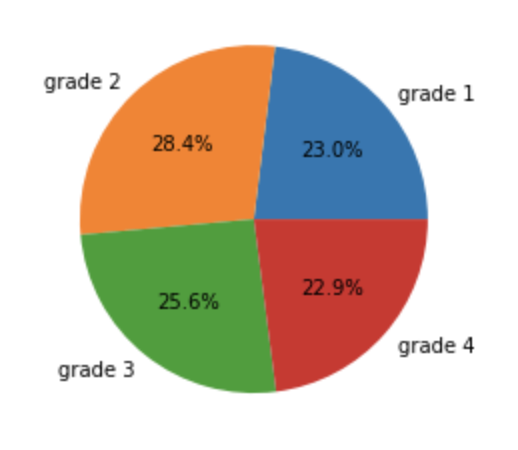
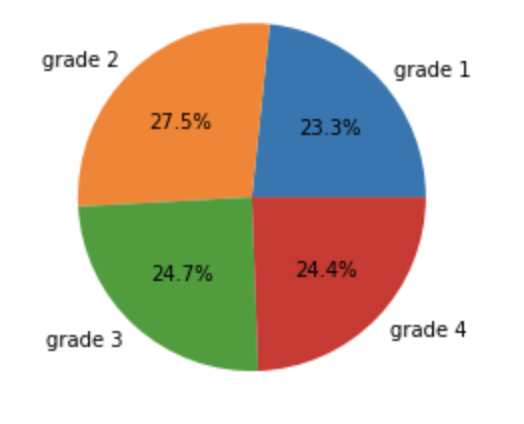
feat: complete Algorithm dataset and algorithms part

diff --git a/algorithms.html b/algorithms.html
@@ -84,8 +84,8 @@
             </p>
             <h3>Data Description</h3>
             <p>
-                The data we received is in the PLY file format, which is an uncommon format for storing 3D point cloud
-                data. Each tooth model is labeled with a tooth wear grade from 0 to 4 on each tooth manually by
+                The data we received is in the PLY file format, which is an common format for storing 3D point cloud
+                data. Each tooth model is labeled with a tooth wear grade from 1 to 4 on each tooth manually by
                 experienced dentists. Hence, the label for a tooth model consists of 4 grades. According to the
                 TWES2.0 standard, mentioned in the <a href="research.html">Research</a> section, the overall tooth
                 wear grade depends on the highest grade among the 4 teeth.
@@ -99,7 +99,7 @@
             <h3>Data Cleaning</h3>
             <p>
                 After examining the dataset, we found that there are many tooth models that are not labeled correctly,
-                for example some 0's are labeled as "o", some tooth models have more than 4 grades and some have less.
+                for example some 0's are labeled as "o", some tooth models have more than 4 grades but some have less.
                 Therefore, our first task was to clean the data and rectify the criteria of the label.
                 <br> <br>
                 After cleaning the data, we moved onto data augmentation to increase the volume of the dataset.
@@ -107,8 +107,56 @@
             <h3>Data augmentation</h3>
             <p>
                 As we only received 194 teeth models, we decided to use data augmentation to increase the size of the
-                dataset as 194 is not a sufficient amount for training a deep learning model.
-                <br> <br>
+                dataset as 194 is not a sufficient amount for training a deep learning model. Additionally, from the pie chart above, we can see that the dataset is imbalanced, which is not suitable for training a deep learning model. Therefore, we also need to increase the amount of data that have a grade of 1, which is obviously smaller than rest of the groups.
+            </p>
+            <p>
+                <strong>Method 1: Rotation</strong>
+                <div class="code-box">
+                    <pre>
+                        <code class="language-python">
+    # random rotation
+    theta = np.random.uniform(0, np.pi * 2)
+    rotation_matrix = np.array([[np.cos(theta), -np.sin(theta)], [np.sin(theta), np.cos(theta)]])
+    point_set[:, [0, 2]] = point_set[:, [0, 2]].dot(rotation_matrix)
+                        </code>
+                    </pre>
+                </div>
+            </p>
+            <p>
+                <strong>Method 2: Jitter</strong>
+                <div class="code-box">
+                    <pre>
+                        <code class="language-python">
+    # random jitter
+    point_set += np.random.normal(0, 0.02, size=point_set.shape)
+                        </code>
+                    </pre>
+                </div>
+            </p>
+            <p>
+                <strong>Method 3: Randomly selected</strong><br>
+                For each point cloud model, researcher usually select 1024 or 2048 points from a large amount of points. The teeth model that we received usually contains 40k to 70k points, which is far more than we need. Hence, we firstly randomly selected 2048 points from each tooth model and we repeated this process to randomly select completely 2048 different points from the points set. As a result we can generate 20-30 different point cloud models from each teeth model.
+                <div class="code-box">
+                    <pre>
+                        <code class="language-python">
+    # read in the ply file 
+    with open(file, 'rb') as f:
+        plydata = PlyData.read(f)
+    pts = np.vstack([plydata['vertex']['x'], plydata['vertex']['y'], plydata['vertex']['z']]).T
+
+    # randomly choose 2048 points and delete these points from the set
+    num_points = np.array(len(pts))
+    choice = np.random.choice(num_points, self.npoints, replace=True)
+    num_points = np.delete(num_points, np.where(np.isin(num_points, choice)))
+    point_set = pts[choice, :]
+
+    # repeat the process according the how many points left
+    ...
+                        </code>
+                    </pre>
+                </div>
+            </p>
+            <p>
                 After augmenting the dataset, we increased the amount of data that have a grade of 1, which is obviously
                 smaller than rest of the groups. The new dataset distribution is much more balenced and is displayed below:
             </p>
@@ -119,9 +167,8 @@
             <p>
                 Ratio of training and testing datasets: 80% training, 20% testing
             </p>
-            <p>
-                We decided to split the dataset into 80% for training and 20% for testing. In order to have a
-                more accurate score, we used K-fold cross validation to train the model. We chose to use
+            <p> <strong>K-fold: </strong>
+                In order to have a more accurate score, we used K-fold cross validation to train the model. We chose to use
                 K = 5, which means we split the dataset into 5 parts randomly, and each time we use 4 parts
                 for training and 1 part for testing. We repeat this process 5 times and take the average score.
             </p>
@@ -163,17 +210,41 @@
                     <img class="img-card" src="images/max_pooling.png" width="50%">
                 </div>
                 <p>
-                    To solve the second problem, the PointNet network uses a transformation matrix to ensure the model is
-                    invariant to the transformation of the input data.
+                    To solve the second problem, the PointNet network uses a transformation matrix, a T-net, to ensure the model is
+                    invariant to the transformation of the input data. The T-net is a 3*3 affine transformation matrix, and we apply this matrix to the imput points. 
                 </p>
                 <div>
                     <img class="img-card" src="images/T_net.png" width="50%">
                 </div>
+                <div class="code-box">
+                    <pre>
+                        <code class="language-python">
+    class STN3d(nn.Module):
+        def __init__(self):
+            super(STN3d, self).__init__()
+            self.conv1 = torch.nn.Conv1d(3, 64, 1)
+            self.conv2 = torch.nn.Conv1d(64, 128, 1)
+            self.conv3 = torch.nn.Conv1d(128, 1024, 1)
+            self.fc1 = nn.Linear(1024, 512)
+            self.fc2 = nn.Linear(512, 256)
+            self.fc3 = nn.Linear(256, 9)
+
+            self.relu = nn.ReLU()
+
+            self.bn1 = nn.BatchNorm1d(64)
+            self.bn2 = nn.BatchNorm1d(128)
+            self.bn3 = nn.BatchNorm1d(1024)
+            self.bn4 = nn.BatchNorm1d(512)
+            self.bn5 = nn.BatchNorm1d(256)
+                        </code>
+                    </pre>
+                </div>
                 <p>
+                    <strong>Classification -> Regression</strong><br>
                     The original PointNet network is designed for classification tasks, but in order to make the network
                     adapt our scenario, we modified its structure to a regression neural network. We kept the two
-                    transformations and multi-layer perceptron layers, but we changed the last two layers into
-                    fully-connected layers with an output of one neuron.
+                    transformations and multi-layer perceptron layers to extract global features from the data, but we changed the last two layers into a
+                    fully-connected layer with an output of one neuron.
                     The structure of the model is shown in the figure below.
                 </p>
                 <div>

diff --git a/implementation.html b/implementation.html
@@ -329,7 +329,7 @@
                 <p>
                     In order to provide maintainability and scalability, we deployed our database and inference module
                     (which includes the deep learning model) onto an Azure cloud platform. We used the Flask framework to
-                    build the back-end server. The Flask framework is a lightweight WSGI web application framework. It
+                    build the back-end server. It
                     provides a flexible routing system and helps create RESTful APIs.
                 </p>
                 <h3 class="section-subheading">Back-end Structure</h3>
@@ -368,7 +368,7 @@ back-end/app
                 <p>
                     The back-end is organised into three modules: dentist_module, inference_module and patient_module.
                     The dentist_module and patient_module are responsible for manipulating user and patient
-                    information in the database. The inference_module contains a deep learning model and handles the
+                    information in the <a href="#data_storage">database</a>. The inference_module contains a deep learning model and handles the
                     prediction requests from dentists when they want to see patient tooth wear degree. The app.py
                     file is the entry point of the back-end server. It is used to create the Flask app object and
                     register the blueprints.
@@ -420,7 +420,7 @@ back-end/app
 
     <section id="data-storage">
         <div class="container-fluid">
-            <h1 class="section-heading section-intro">Data Storage</h1>
+            <h1 id="data_storage" class="section-heading section-intro">Data Storage</h1>
             <div class="text-box section-intro">
                 <h3 class="section-subheading">Tools</h3>
             </div>
@@ -539,8 +539,8 @@ back-end/app
             <div class="text-box section-intro">
                 <h3 class="section-subheading">Explanation</h3>
                 <p>
-                    Please visit the <a href="algorithms.html">Algorithms tab</a> for more detailed algorithms explanation and how to 
-                    implement the algorithm step by step. The image below is the general structure of PointNet that we used to implementation
+                    Please visit the <a href="algorithms.html">Algorithms tab</a> for more detailed algorithms explanation, how to 
+                    implement the algorithm step by step, and result evaluation. The image below is the general structure of PointNet that we used to implementation
                     our deep learning model.
                 </p>
                 <img class="img-card" src="images/PointNet.jpg" width="70%"></img>
